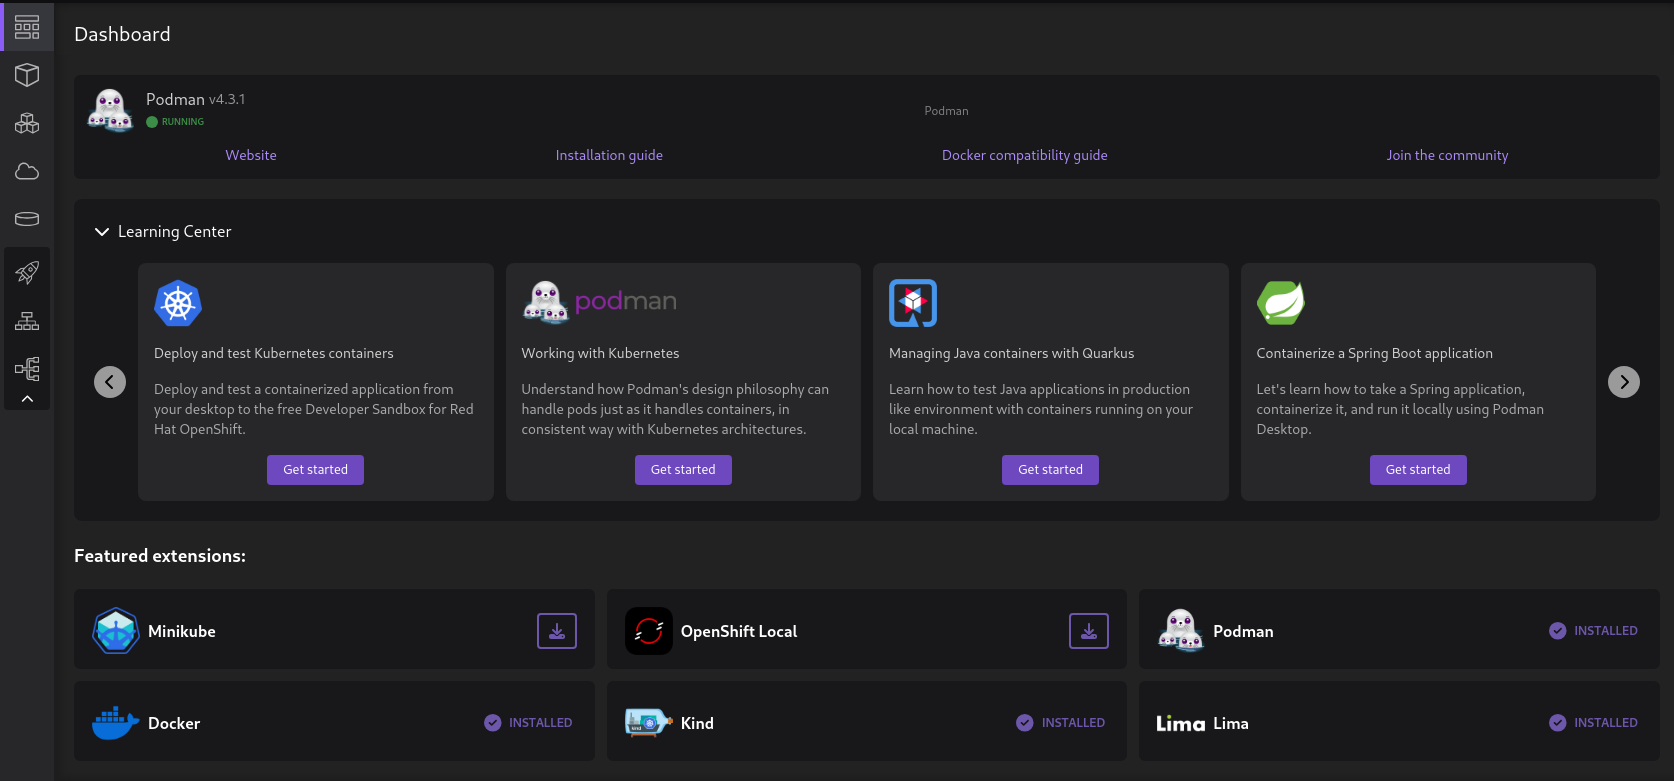
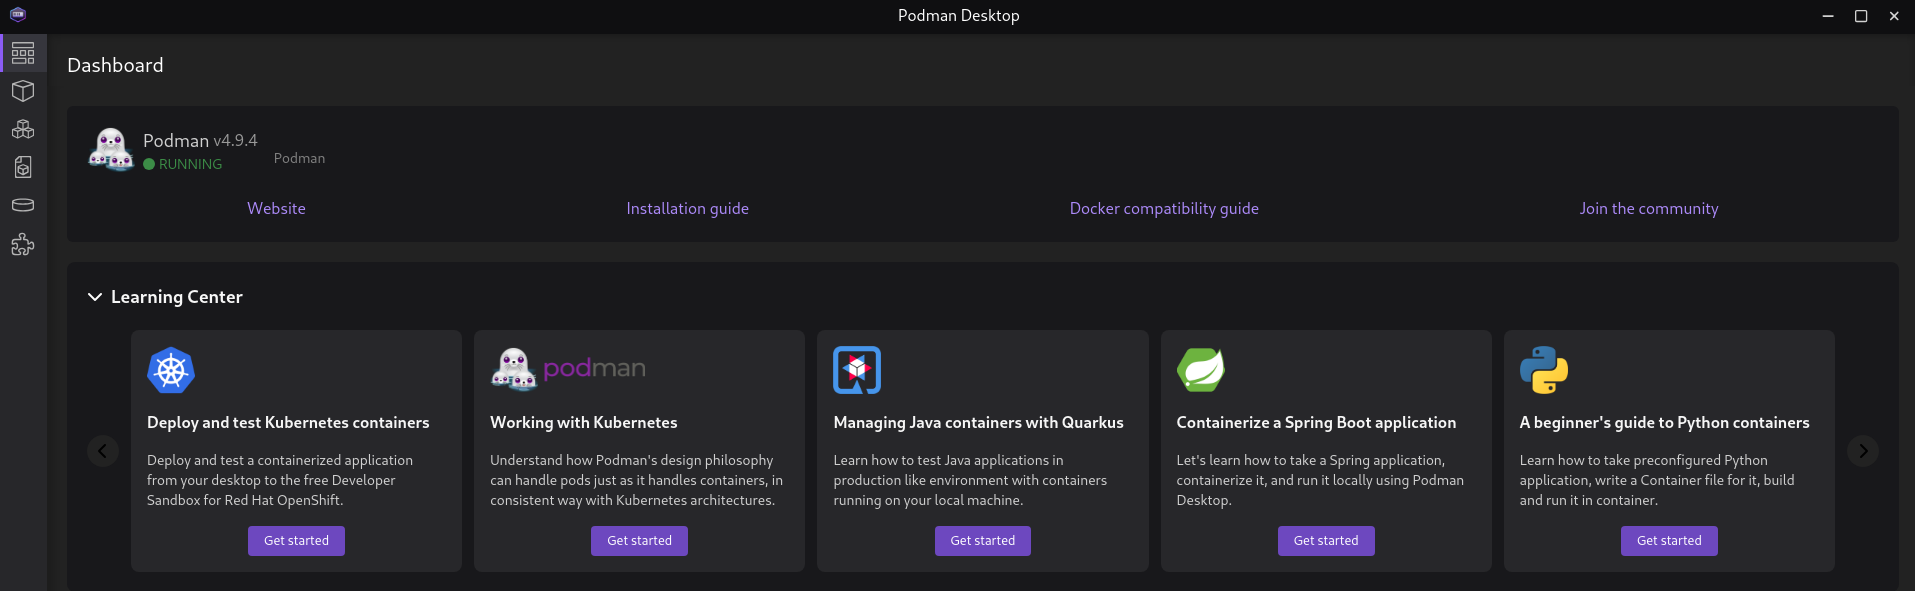
Módulo10

diff --git a/contenido/modulo10/introduccion.md b/contenido/modulo10/introduccion.md
@@ -59,7 +59,6 @@ Cuando iniciamos por primera vez Podman Desktop se ejecuta un asistente que inst
 
 * Te indica el estado y la versión de Podman con la que estamos trabajando.
 * **Learning Center**: Tenemos acceso a numerosos artículos donde nos enseñan a trabajar con distintos aspectos sobre los contenedores.
-* **Featured Extensions**: Nos da información de las extensiones más interesantes y si la tenemos instaladas o no.
 
 En el menú lateral encontramos las siguientes secciones:
 
@@ -67,7 +66,7 @@ En el menú lateral encontramos las siguientes secciones:
 * **Pods**: Nos permite la gestión de Pods.
 * **Imágenes**: Nos permite la gestión de Imágenes.
 * **Volúmenes**: Nos permite la gestión de volúmenes.
-* **Kubernetes**: Nos permite gestionar un clúster de Kubernetes. Tenemos varios apartados: Deployments, Services e Ingress.
+* **Extensiones**: Nos permite gestionar las extensiones que podemos instalar en Podman Desktop.
 * **Configuración**:
     * Recursos: Aplicaciones con las que podemos trabajar desde Podman Desktop.
     * Configuración del proxy.
